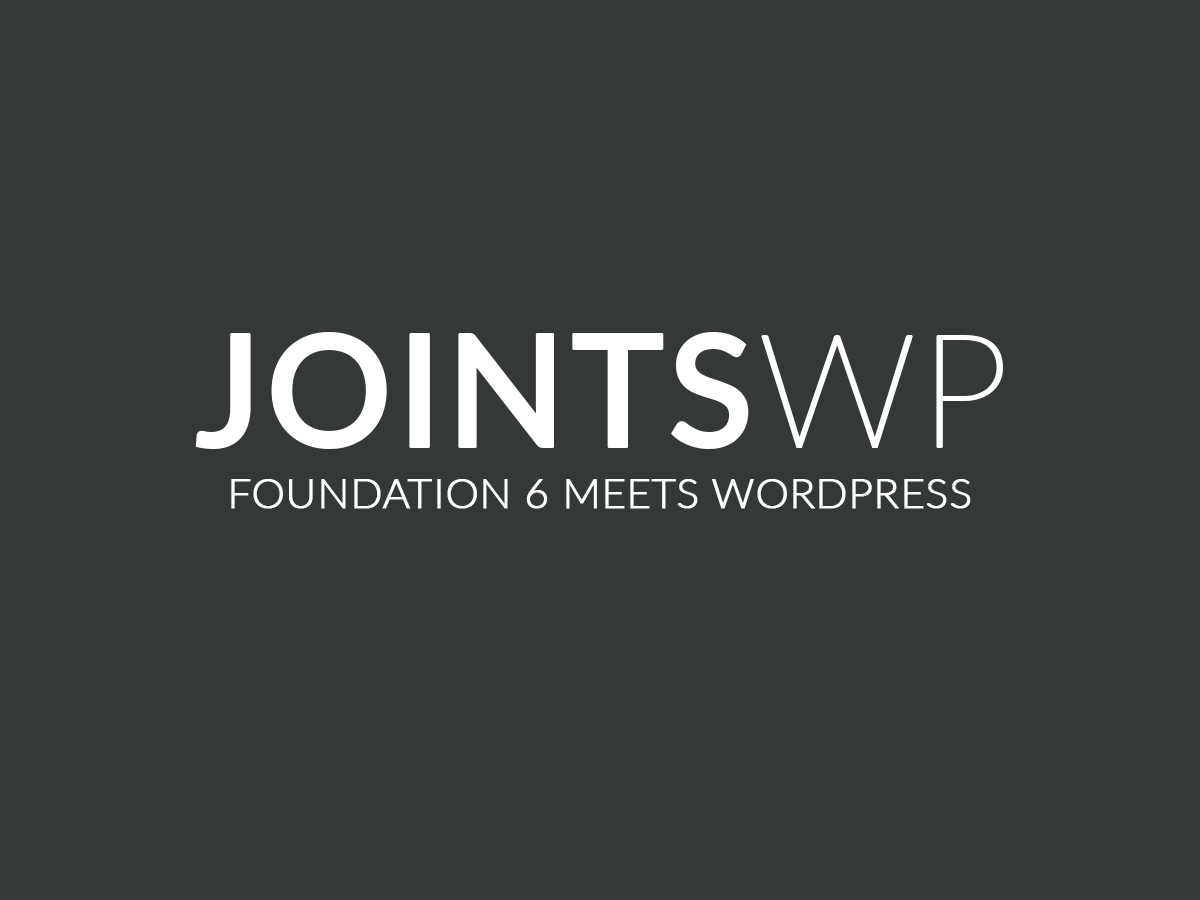
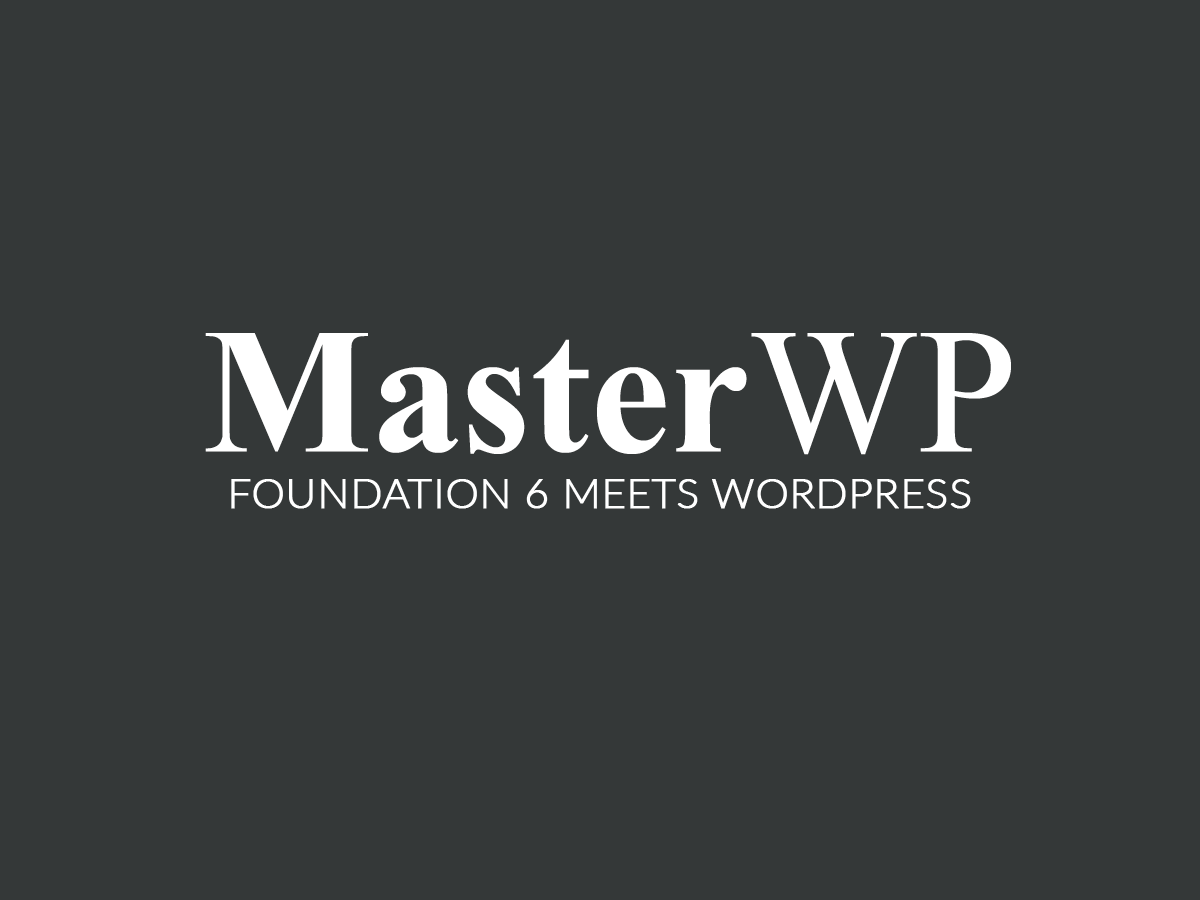
Change Theme name and screenshot

Changed region(s): [[0.1542, 0.3422, 0.8633, 0.5289]]

diff --git a/wp-content/themes/master-wp-theme/style.css b/wp-content/themes/master-wp-theme/style.css
@@ -1,10 +1,10 @@
 /******************************************************************
-Theme Name: JointsWP - Sass
-Theme URI: http://www.jointswp.com
+Theme Name: Master WP Theme
+Theme URI: https://github.com/saeedreza/master-wp-theme
 Description: 
-Author: Your Name Here
-Author URI: http://www.yoururlhere.com
-Version: 4.0
+Author: Saeed Abbaspour
+Author URI: https://github.com/saeedreza
+Version: 1.0
 License: GNU General Public License & MIT
 License URI: http://www.gnu.org/licenses/gpl-2.0.html
 Tags: Sass
